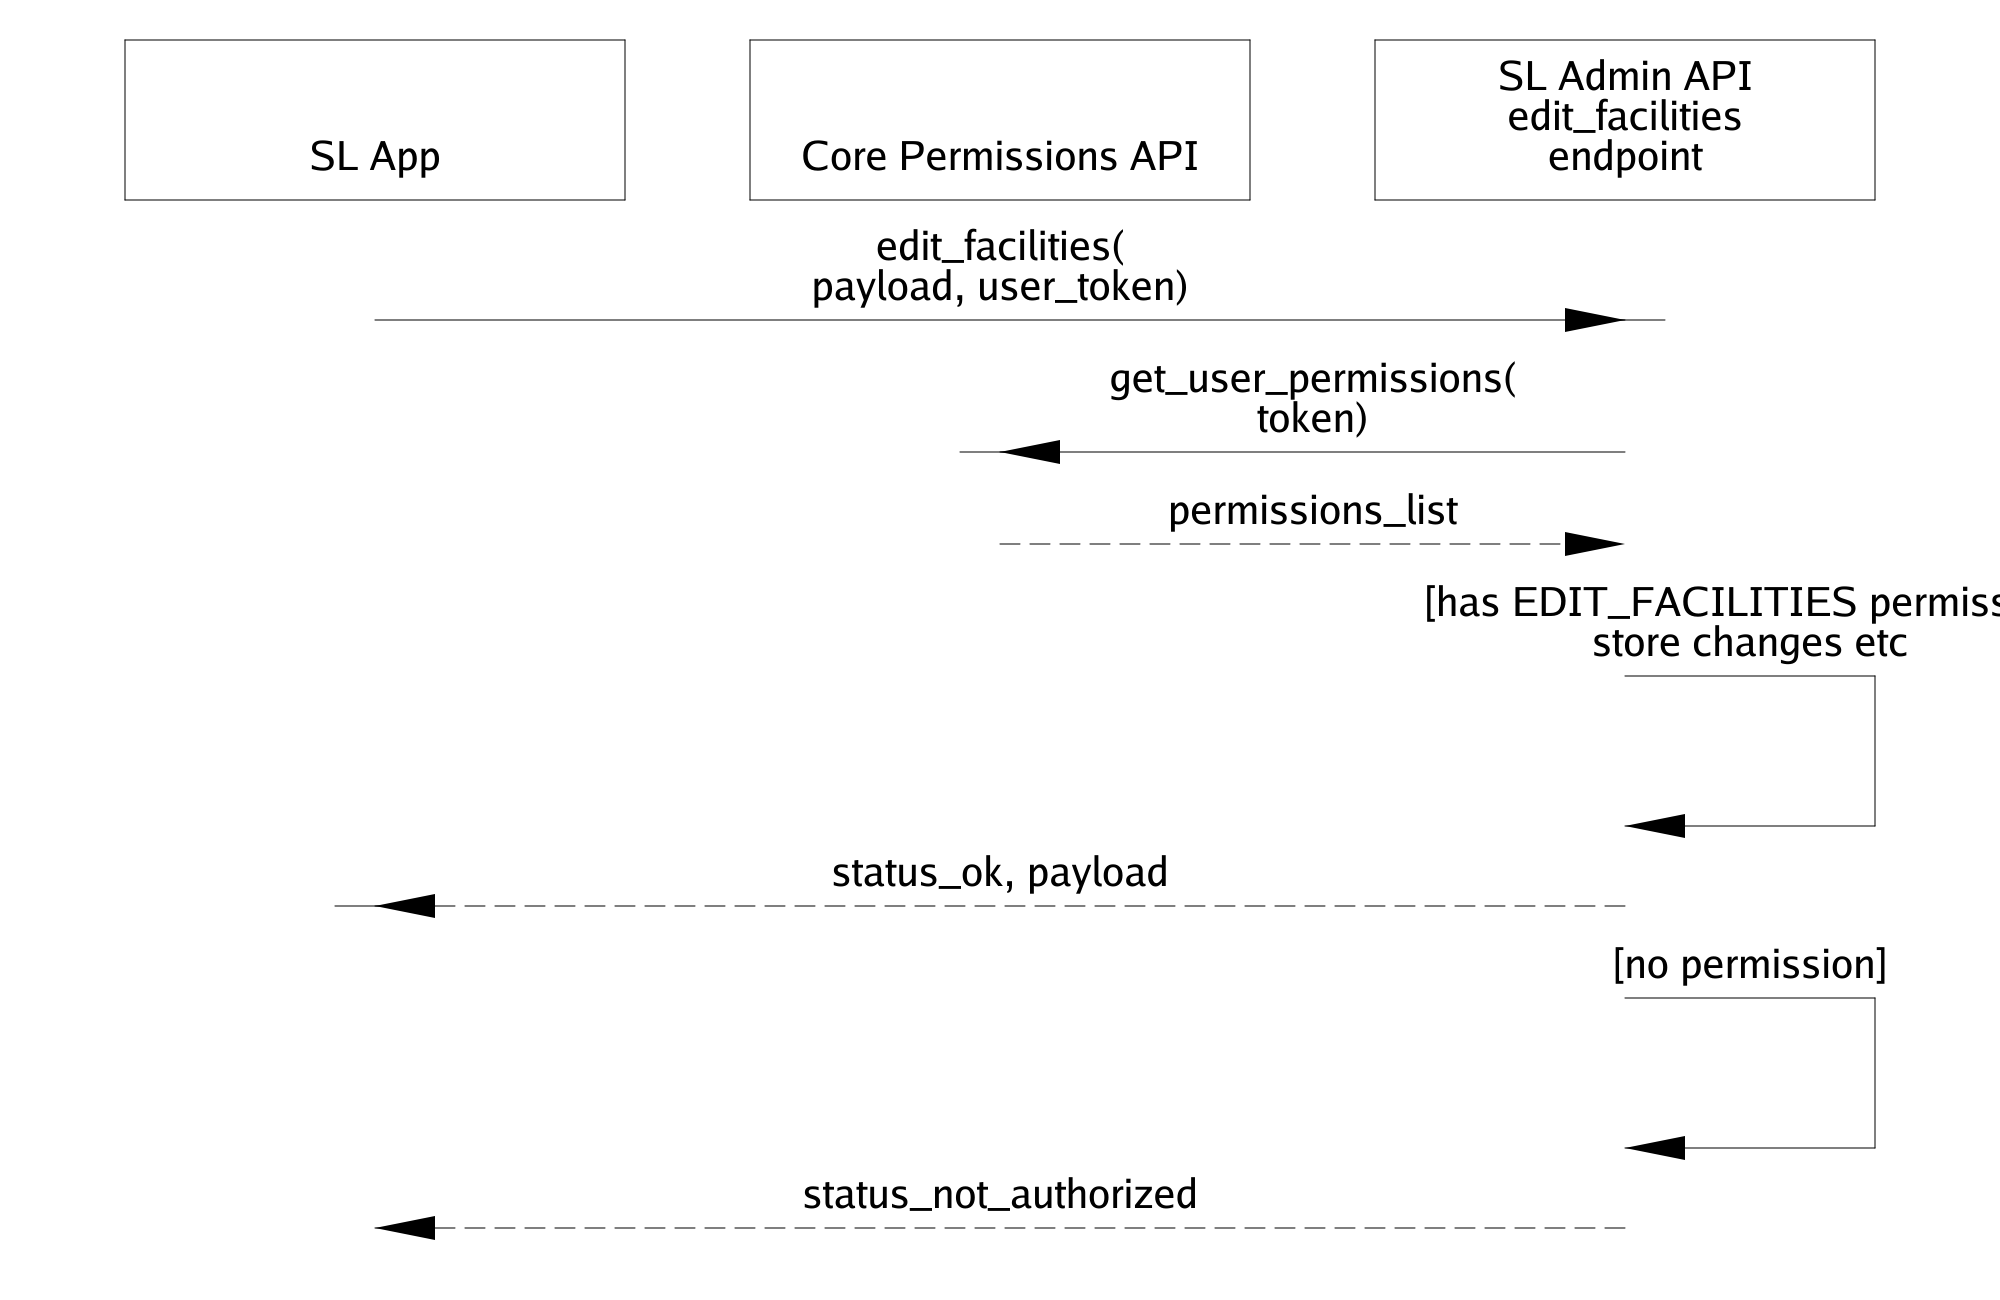
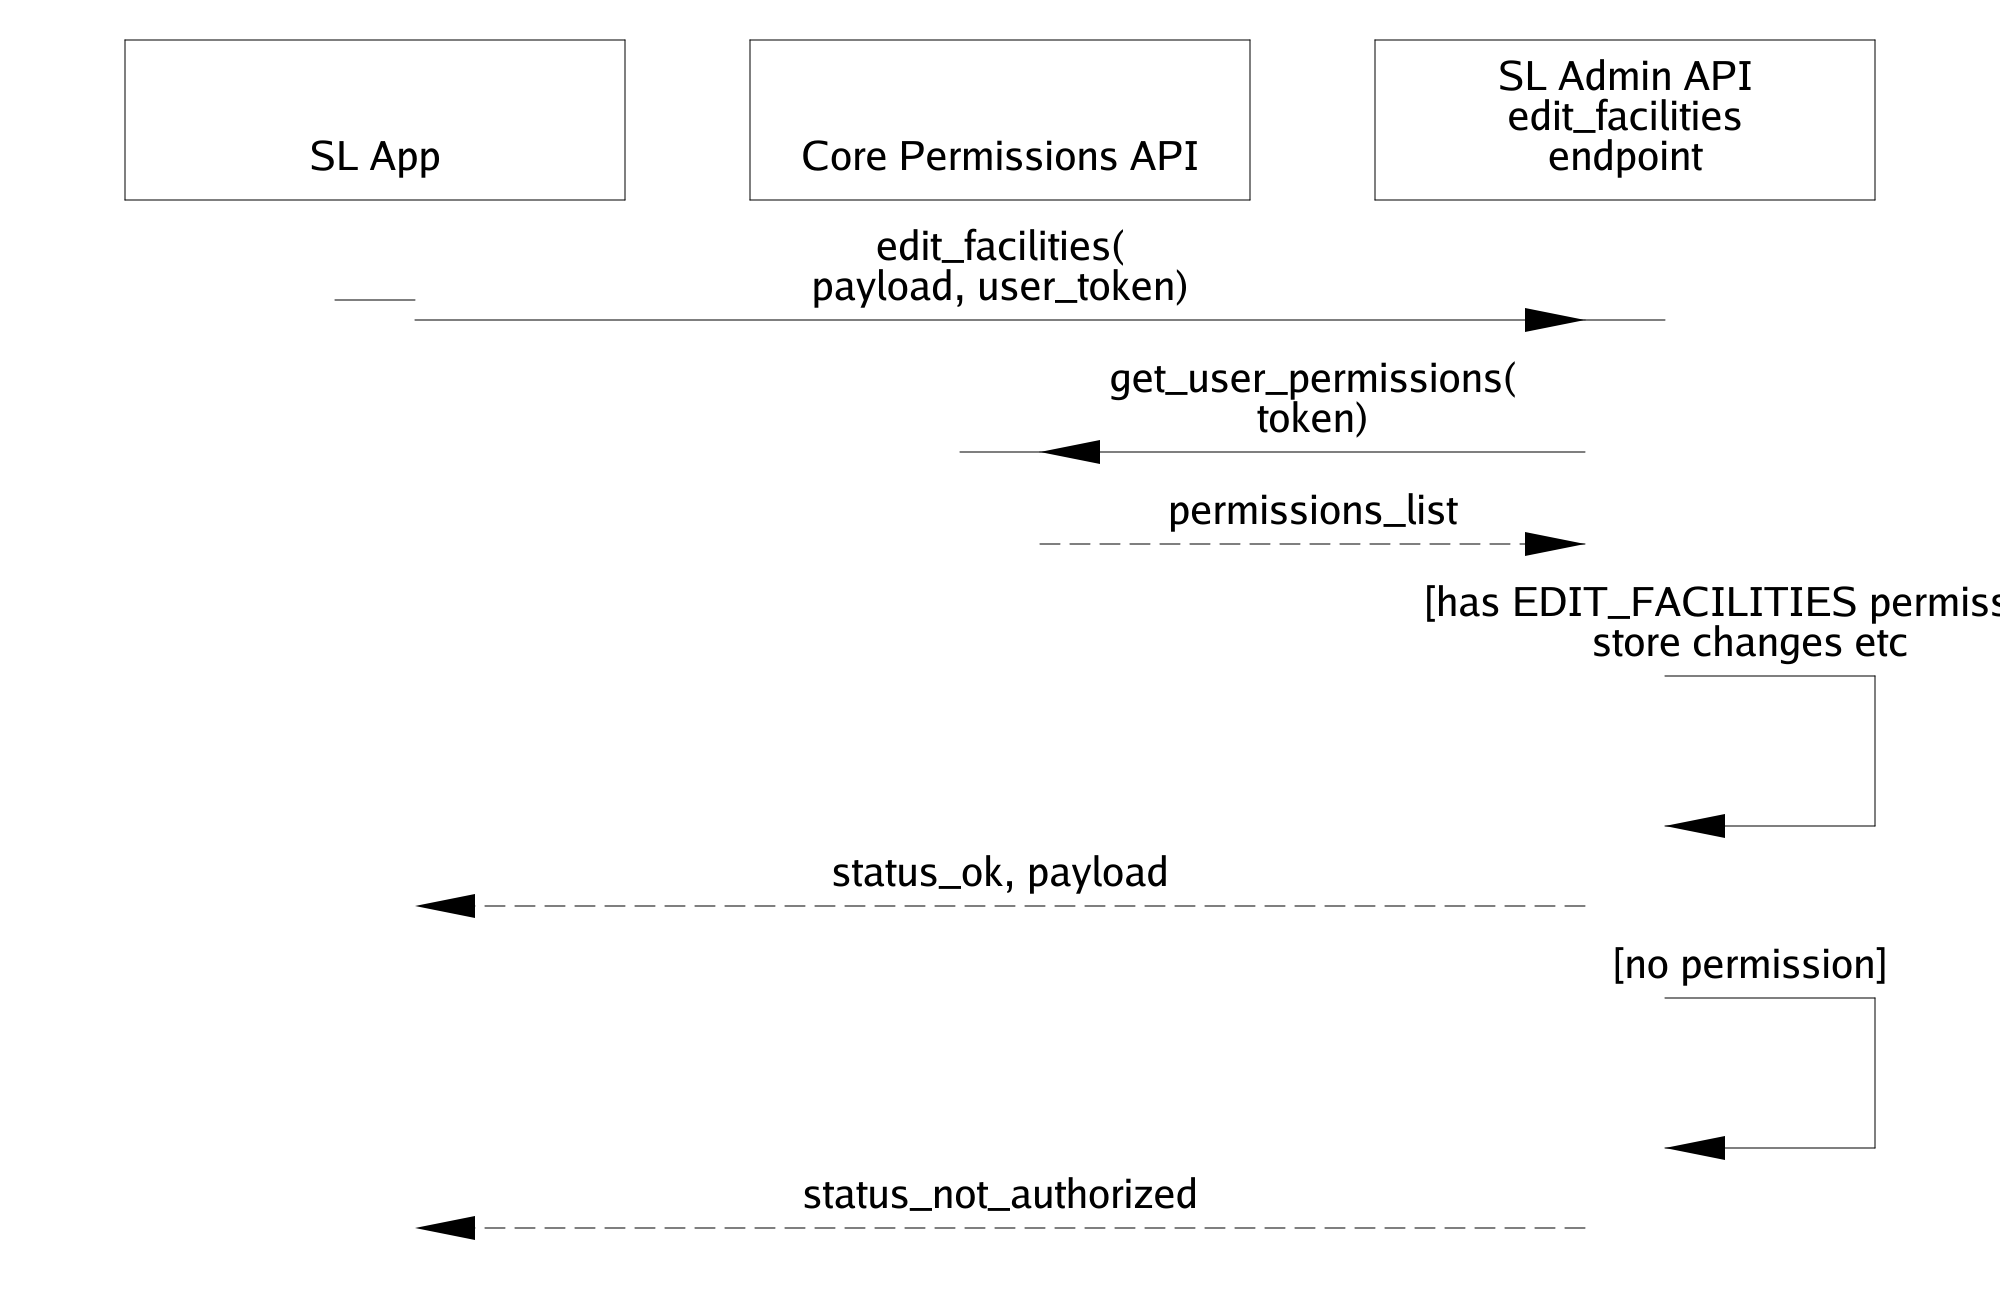
Create activity boxes on lifelines (WIP)

diff --git a/diag/creator.go b/diag/creator.go
@@ -104,7 +104,7 @@ func (c *Creator) finalizeDiagramHeight() {
 /*
 graphicsForDrawingEvent synthesizes the lines and label strings primititives
 required to render a single diagram element drawing event. It also advances
-c.tideMark, to accomodate the space taken up by the new primitives.
+c.tideMark, to accomodate the space taken up by what it generated.
 */
 func (c *Creator) graphicsForDrawingEvent(evt EventType,
 	statement *dslmodel.Statement) (prims *graphics.Primitives) {
@@ -125,6 +125,7 @@ func (c *Creator) graphicsForDrawingEvent(evt EventType,
 	case SelfInteractionLabel:
 		prims = c.selfInteractionLabels(statement)
 	case PotentiallyStartFromBox:
+		prims = c.potentiallyStartFromBox(statement)
 	case PotentiallyStartToBox:
 		prims = c.potentiallyStartToBox(statement)
 	}
@@ -218,10 +219,9 @@ the vertical space it claims for itself by advancing the tide mark.
 func (c *Creator) interactionLine(
 	statement *dslmodel.Statement) (prims *graphics.Primitives) {
 	prims = graphics.NewPrimitives()
-	leftLane := statement.ReferencedLanes[0]
-	rightLane := statement.ReferencedLanes[1]
-	x1 := c.sizer.Lanes.Individual[leftLane].Centre
-	x2 := c.sizer.Lanes.Individual[rightLane].Centre
+	fromLane := statement.ReferencedLanes[0]
+	toLane := statement.ReferencedLanes[1]
+	x1, x2 := c.sizer.Lanes.InteractionLineEndPoints(fromLane, toLane)
 	y := c.tideMark
 	prims.AddLine(x1, y, x2, y, statement.Keyword == umli.Dash)
 	arrowVertices := makeArrow(x1, x2, y, c.sizer.ArrowLen,
@@ -240,7 +240,7 @@ func (c *Creator) selfInteractionLines(
 	statement *dslmodel.Statement) (prims *graphics.Primitives) {
 	prims = graphics.NewPrimitives()
 	theLane := statement.ReferencedLanes[0]
-	left := c.sizer.Lanes.Individual[theLane].Centre
+	left := c.sizer.Lanes.Individual[theLane].ActivityBoxRight
 	right := c.sizer.Lanes.Individual[theLane].SelfLoopRight
 	top := c.tideMark
 	bot := c.tideMark + c.sizer.SelfLoopHeight
@@ -262,17 +262,42 @@ going to, and if it hasn't does so by drawing the top edge.
 */
 func (c *Creator) potentiallyStartToBox(
 	statement *dslmodel.Statement) (prims *graphics.Primitives) {
+	behindTidemarkDelta := 0.0
+	return c.potentiallyStartActivityBox(statement.ReferencedLanes[1],
+		behindTidemarkDelta)
+}
+
+/*
+potentiallyStartFromBox works out if the Creator has already started a
+lifeline activity box for the lifeline that this interaction line is
+being emited from, and if it hasn't does so by drawing the top edge.
+Note it is atypical because it renders behind the tidemark, to position the
+start of the box a little before the interaction line, but then leaves the
+tidemark unchanged, so that the interaction line that follows, stays in contact
+with its label (which has already been emitted).
+*/
+func (c *Creator) potentiallyStartFromBox(
+	statement *dslmodel.Statement) (prims *graphics.Primitives) {
+	behindTidemarkDelta := c.sizer.ActivityBoxTopPadB
+	return c.potentiallyStartActivityBox(statement.ReferencedLanes[0],
+		behindTidemarkDelta)
+}
+
+// potentiallyStartActivityBox is a DRY helper to (potentially) draw the
+// top edge of a lifeline's activity box.
+func (c *Creator) potentiallyStartActivityBox(
+	lifeline *dslmodel.Statement, behindTidemarkDelta float64) (
+	prims *graphics.Primitives) {
 	prims = graphics.NewPrimitives()
-	toLifeline := statement.ReferencedLanes[1]
-	if c.boxState.boxIsInProgress(toLifeline) {
+	// Already a box in progress?
+	if c.boxState.boxIsInProgress(lifeline) {
 		return prims
 	}
-	left := c.sizer.Lanes.Individual[toLifeline].ActivityBoxLeft
-	right := c.sizer.Lanes.Individual[toLifeline].ActivityBoxRight
-	y := c.tideMark
+	left := c.sizer.Lanes.Individual[lifeline].ActivityBoxLeft
+	right := c.sizer.Lanes.Individual[lifeline].ActivityBoxRight
+	// Render potentially **behind** the tidemark.
+	y := c.tideMark - behindTidemarkDelta
 	prims.AddLine(left, y, right, y, false)
-	c.boxState.boxesInProgress[toLifeline] = true
-	// tide mark is unchanged because the interaction lines that come into
-	// newly started activity boxes line up with the top of the box
+	c.boxState.boxesInProgress[lifeline] = true
 	return prims
 }

diff --git a/diag/creator_visual_test.go b/diag/creator_visual_test.go
@@ -26,7 +26,6 @@ import (
 
 var testResultsDir = filepath.Join(".", "testresults", "new")
 
-
 // TestScratch is a wip test to isolate something during dev
 func TestScratch(t *testing.T) {
 	width := 2000
@@ -34,7 +33,7 @@ func TestScratch(t *testing.T) {
 	script := `
 		lane A foo
 		lane B bar
-		full AB baz
+		full AB multi | line | label
 	`
 	genericCreateHelper(t, script, width, fontHeight, "scratch.png")
 }
@@ -47,7 +46,6 @@ func TestReferenceModel(t *testing.T) {
 	script := parser.ReferenceInput
 	genericCreateHelper(t, script, width, fontHeight, "canonical.png")
 }
-
 
 // TestOneLane illustrates the sizing and composition logic in the context
 // of a diagram with just one lane in.
@@ -63,7 +61,7 @@ func TestOneLane(t *testing.T) {
 	genericCreateHelper(t, script, width, fontHeight, "onelane.png")
 }
 
-// TestLargeNumberOfLanes illustrates the sizing and composition logic 
+// TestLargeNumberOfLanes illustrates the sizing and composition logic
 // when there are a large number of lanes.
 func TestLargeNumberOfLanes(t *testing.T) {
 	width := 2000
@@ -92,7 +90,7 @@ func TestLargeNumberOfLanes(t *testing.T) {
 	genericCreateHelper(t, script, width, fontHeight, "manylanes.png")
 }
 
-// TestLargeNumberOfInteractions illustrates the sizing and composition 
+// TestLargeNumberOfInteractions illustrates the sizing and composition
 // logic when there are a large number of interactions.
 func TestLargeNumberOfInteraction(t *testing.T) {
 	width := 2000
@@ -122,7 +120,7 @@ func TestLargeNumberOfInteraction(t *testing.T) {
 	genericCreateHelper(t, script, width, fontHeight, "manyinteractions.png")
 }
 
-// TestLargeFont illustrates the sizing and composition 
+// TestLargeFont illustrates the sizing and composition
 // logic when font is relatively large.
 func TestLargeFont(t *testing.T) {
 	width := 2000
@@ -131,7 +129,7 @@ func TestLargeFont(t *testing.T) {
 	genericCreateHelper(t, script, width, fontHeight, "largfont.png")
 }
 
-// TestSmallFont illustrates the sizing and composition 
+// TestSmallFont illustrates the sizing and composition
 // logic when font is relatively small.
 func TestSmallFont(t *testing.T) {
 	width := 2000
@@ -140,7 +138,7 @@ func TestSmallFont(t *testing.T) {
 	genericCreateHelper(t, script, width, fontHeight, "smallfont.png")
 }
 
-// TestSmallDiagram illustrates the sizing and composition 
+// TestSmallDiagram illustrates the sizing and composition
 // logic when the diagram size (width) is specified to be rather
 // small.
 func TestSmallDiagram(t *testing.T) {
@@ -149,7 +147,6 @@ func TestSmallDiagram(t *testing.T) {
 	script := parser.ReferenceInput
 	genericCreateHelper(t, script, width, fontHeight, "smalldiag.png")
 }
-
 
 // Helper functions (DRY)
 

diff --git a/sizer/lanes.go b/sizer/lanes.go
@@ -26,7 +26,7 @@ type Lanes struct {
 	FirstTitleBoxPadL       float64 // Positions leftmost title box
 	TitleBoxPadB            float64 // Below title box as a whole
 	SelfLoopWidth           float64
-	ActivityBoxWidth		float64
+	ActivityBoxWidth        float64
 	Individual              InfoPerLane
 }
 
@@ -60,6 +60,22 @@ func NewLanes(diagramWidth int, fontHeight float64,
 	lanes.populateIndividualLaneInfo()
 
 	return lanes
+}
+
+// InteractionLineEndPoints works out the x coordinates for an interaction
+// line between two given lifelines.
+func (lanes *Lanes) InteractionLineEndPoints(
+	fromLane, toLane *dslmodel.Statement) (x1, x2 float64) {
+	fromLaneSiz := lanes.Individual[fromLane]
+	toLaneSiz := lanes.Individual[toLane]
+	if toLaneSiz.Centre > fromLaneSiz.Centre {
+		x1 = fromLaneSiz.ActivityBoxRight
+		x2 = toLaneSiz.ActivityBoxLeft
+	} else {
+		x1 = fromLaneSiz.ActivityBoxLeft
+		x2 = toLaneSiz.ActivityBoxRight
+	}
+	return
 }
 
 // populateTitleBoxAttribs works out the values for the TitleBoxXXX attributes.

diff --git a/sizer/sizer.go b/sizer/sizer.go
@@ -14,7 +14,6 @@ it delegates to. For example: sizing.Lanes.
 package sizers
 
 import (
-	"fmt"
 	"github.com/peterhoward42/umli/dslmodel"
 )
 
@@ -34,6 +33,7 @@ type Sizer struct {
 	DashLineDashLen         float64
 	DashLineDashGap         float64
 	SelfLoopHeight          float64
+	ActivityBoxTopPadB      float64
 }
 
 // NewSizer provides a Sizer structure that has been initialised
@@ -51,12 +51,7 @@ func NewSizer(diagramWidth int, fontHeight float64,
 	sizer.DashLineDashLen = dashLineDashLenK * fontHeight
 	sizer.DashLineDashGap = dashLineDashGapK * fontHeight
 	sizer.SelfLoopHeight = sizer.Lanes.SelfLoopWidth * selfLoopAspectRatio
-
-	// for debugging
-	fmt.Printf("XXXX sizer.Lanes.LifelineStatements:\n")
-	for _, s := range sizer.Lanes.LifelineStatements {
-		fmt.Printf("XXXX %p\n", s)
-	}
+	sizer.ActivityBoxTopPadB = activityBoxTopPadBK * fontHeight
 
 	return sizer
 }

diff --git a/diag/events.go b/diag/events.go
@@ -50,14 +50,14 @@ var EventsRequired = map[string][]EventType{
 		InteractionLine,       // advances tidemark
 	},
 	umli.Full: []EventType{
-		PotentiallyStartFromBox, // advances tidemark
 		InteractionLabel,        // advances tidemark
+		PotentiallyStartFromBox, // no advance (renders behind tidemark)
 		PotentiallyStartToBox,   // no advance
 		InteractionLine,         // advances tidemark
 	},
 	umli.Self: []EventType{
-		PotentiallyStartFromBox, // advances tidemark
 		SelfInteractionLabel,    // advances tidemark
+		PotentiallyStartFromBox, // no advance (renders behind tidemark)
 		SelfInteractionLines,    // advances tidemark
 	},
 	umli.Stop: []EventType{

diff --git a/sizer/settings.go b/sizer/settings.go
@@ -33,5 +33,6 @@ const (
 	selfLoopAspectRatio = 0.6 // Width ratio to height of the three lines
 
 	// Lifeline activity boxes
-	activityBoxWidthK = 2.0
+	activityBoxWidthK   = 2.0
+	activityBoxTopPadBK = 0.5
 )
